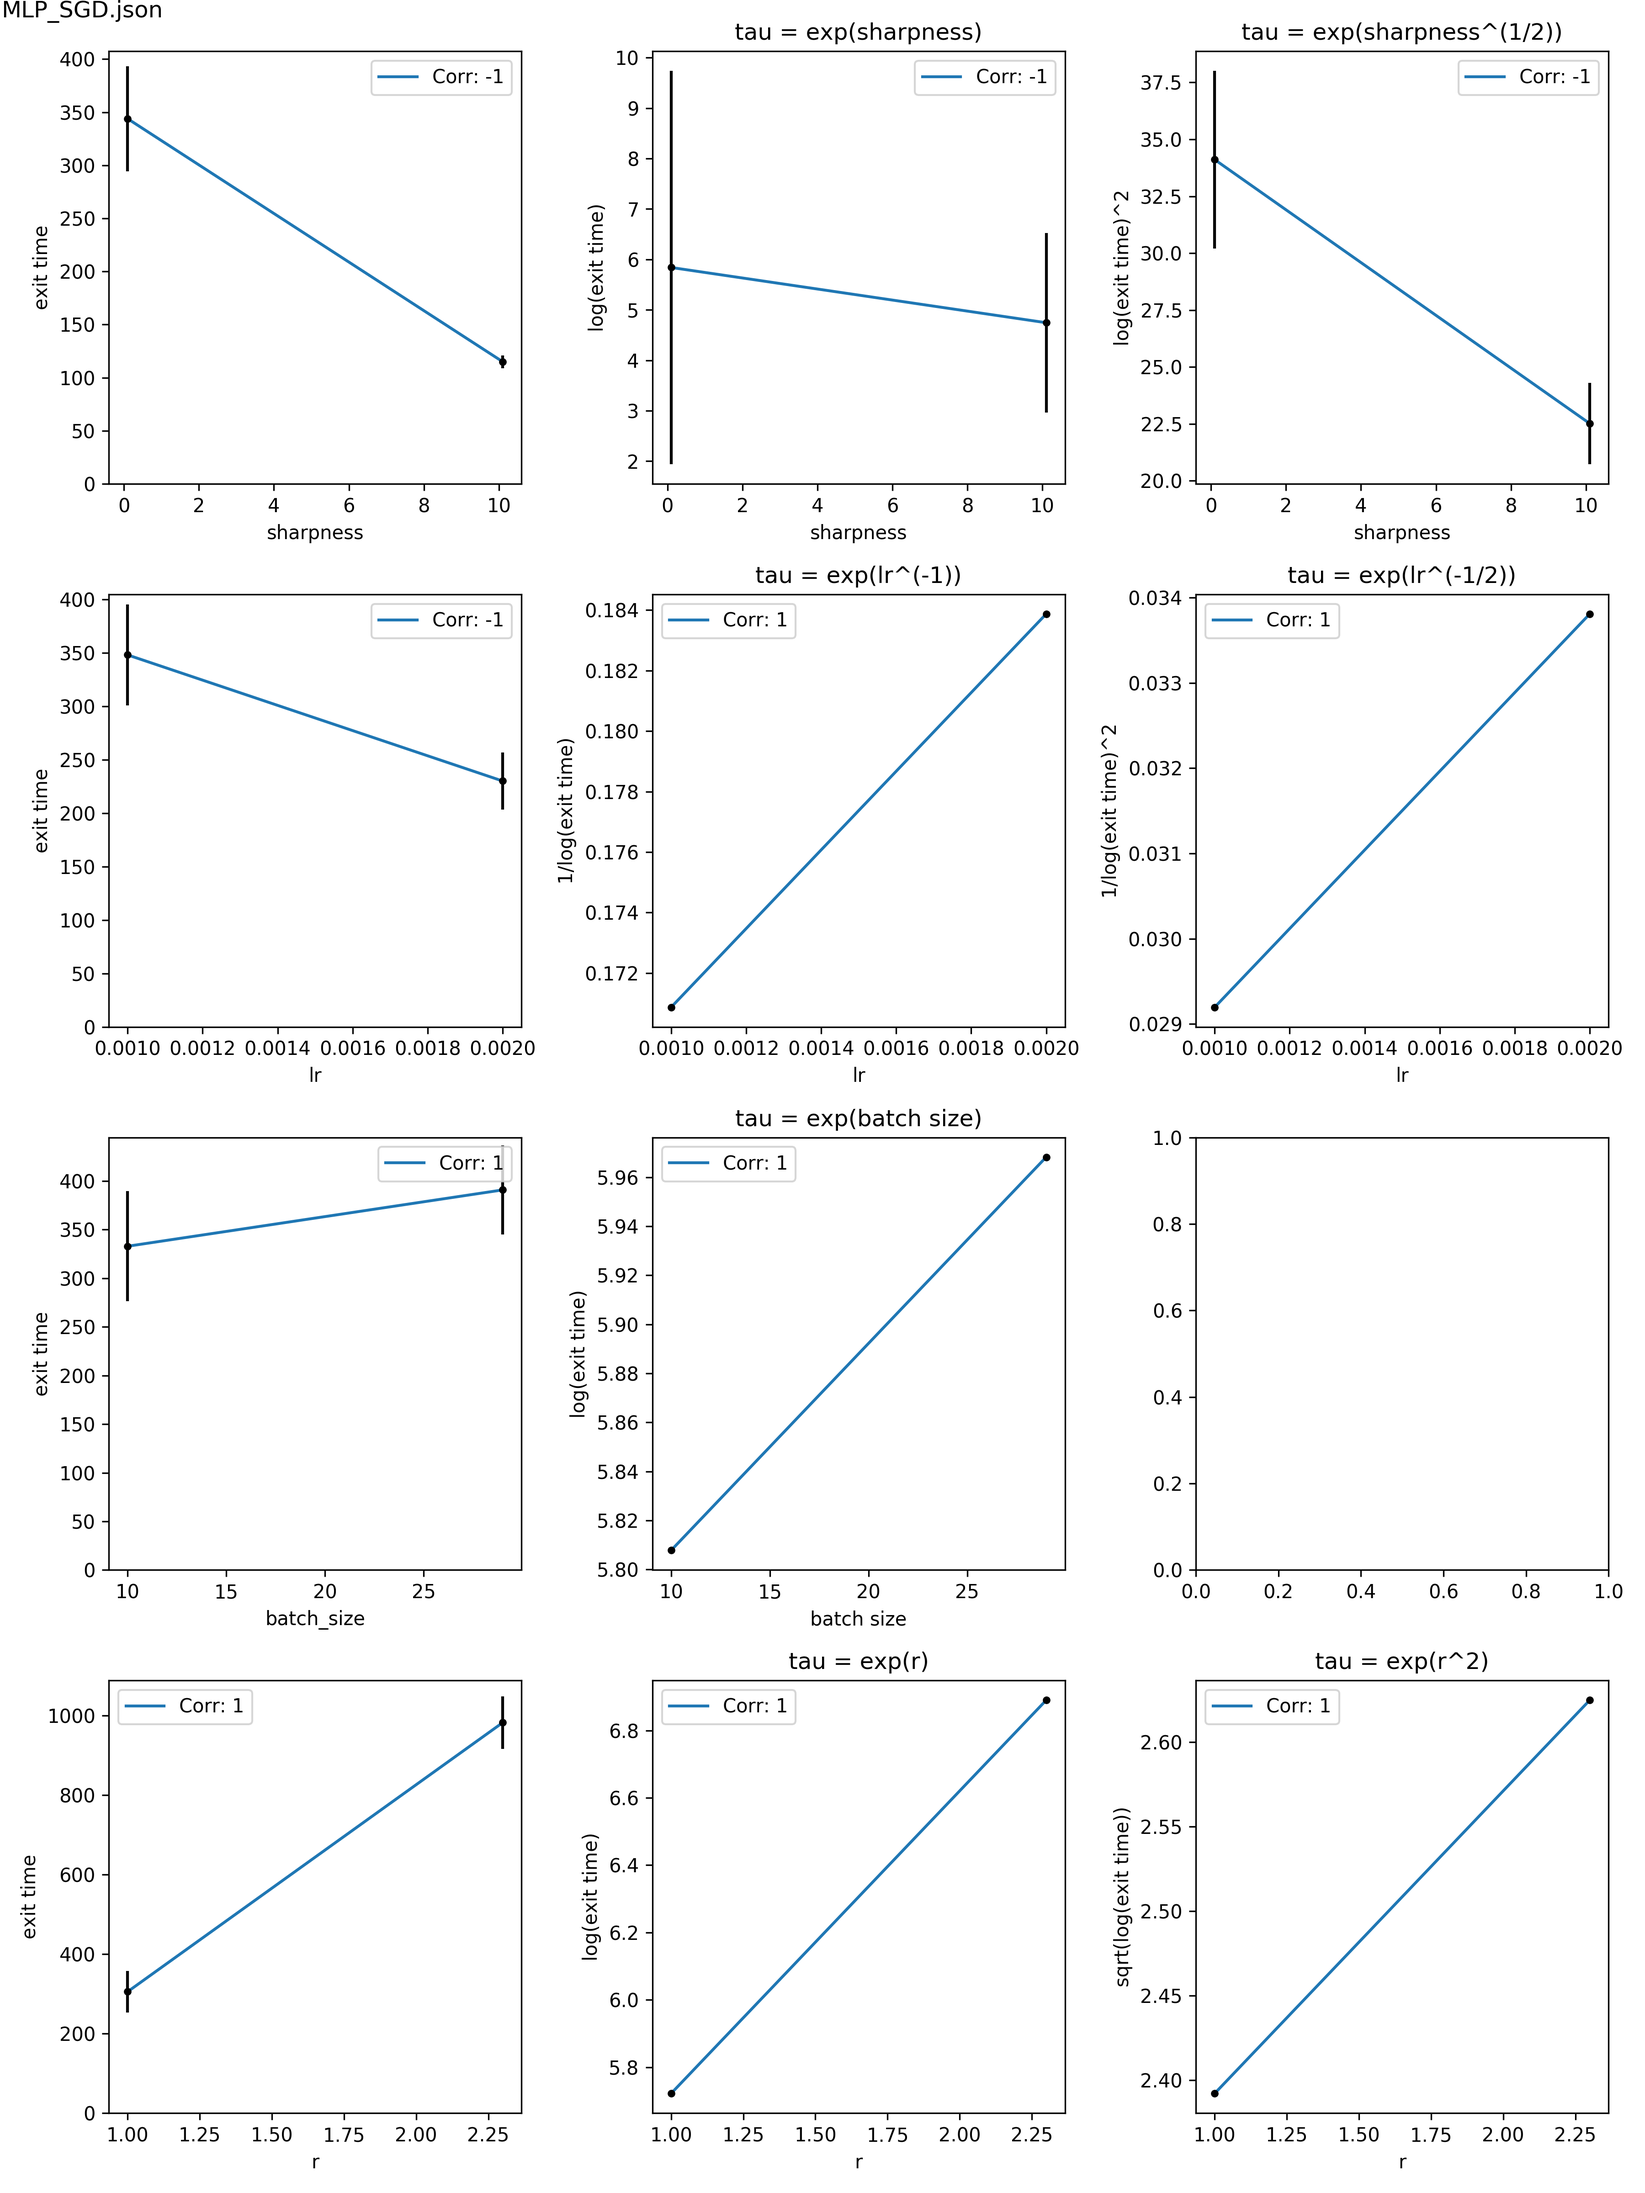
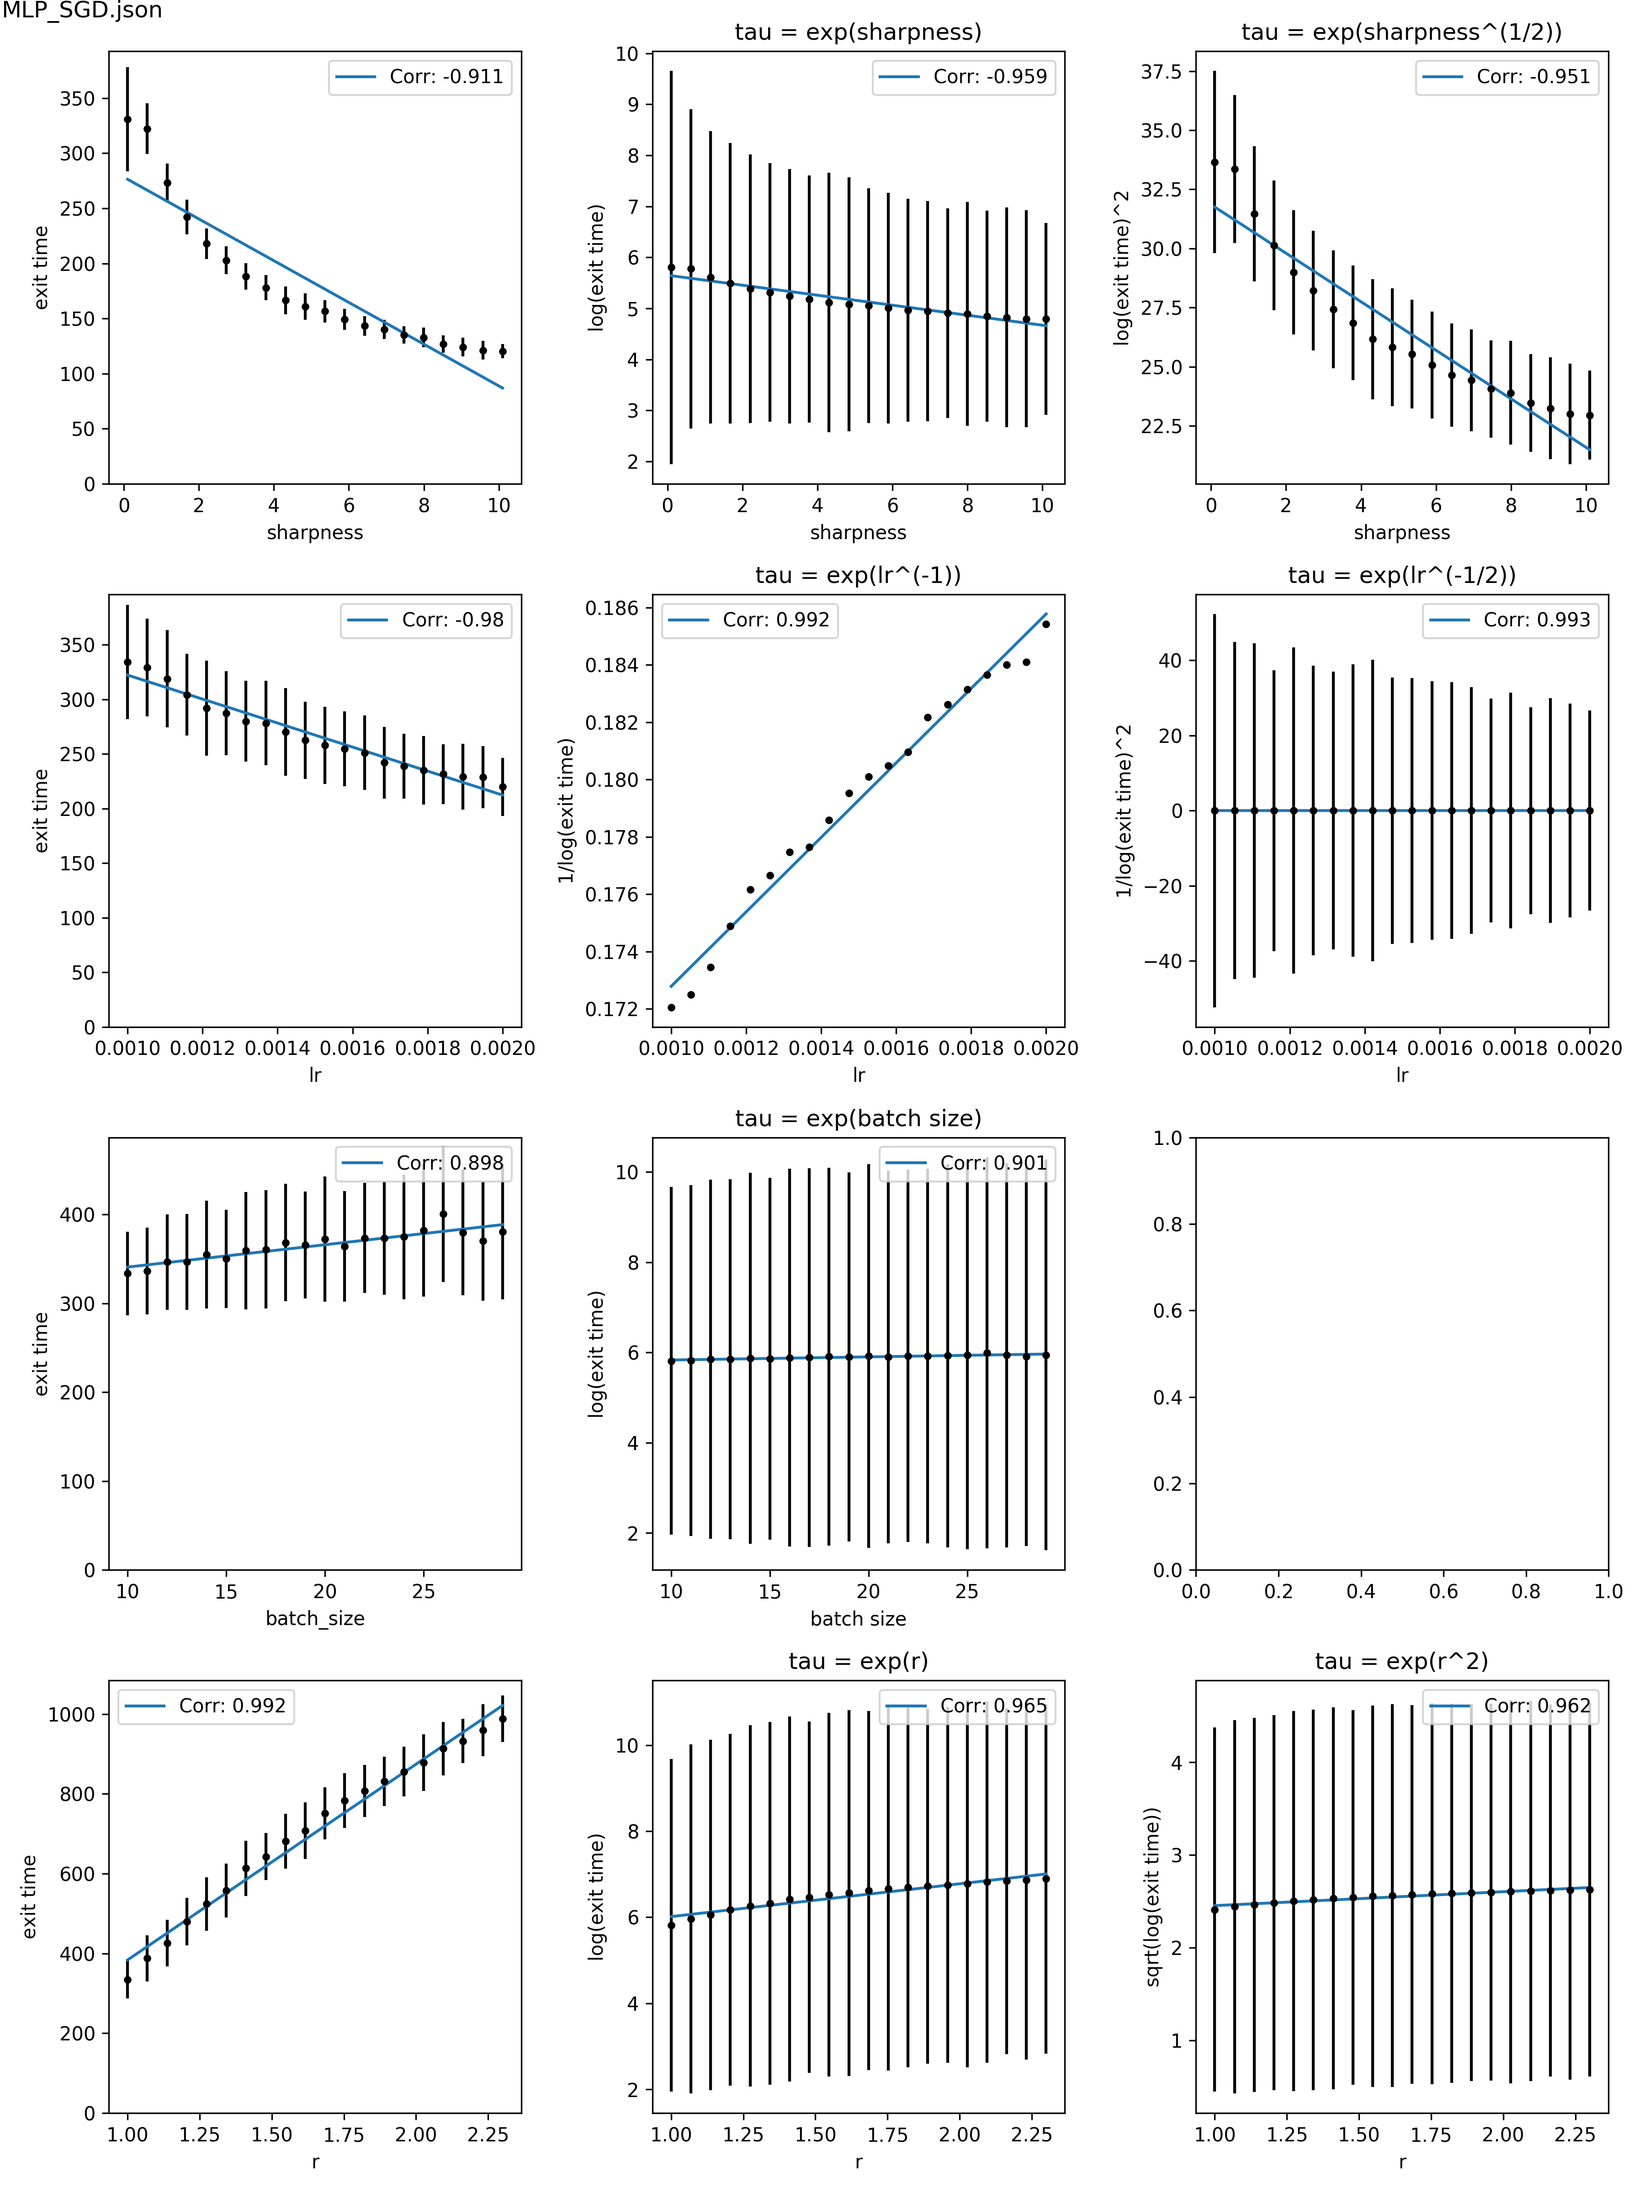
update

diff --git a/exit_time.py b/exit_time.py
@@ -226,7 +226,7 @@ def draw(config_fn, sharpness_results, lr_results, batch_size_results, r_results
     m_3, c_3 = np.linalg.lstsq(A, y_3, rcond=None)[0]
     ax2[2].set_xlabel("lr")
     ax2[2].set_ylabel("1/log(exit time)^2")
-    ax2[2].errorbar(x_3, y_3, yerr=std*0, fmt='.k') 
+    ax2[2].errorbar(x_3, y_3, yerr=std, fmt='.k') 
     ax2[2].plot(x_3, m_3*x_3 + c_3)
     ax2[2].legend([f'Corr: {coeff_3:.3g}'])
     ax2[2].set_title(f'tau = exp(lr^(-1/2))')
@@ -252,7 +252,7 @@ def draw(config_fn, sharpness_results, lr_results, batch_size_results, r_results
     m_2, c_2 = np.linalg.lstsq(A, y_2, rcond=None)[0]
     ax3[1].set_xlabel("batch size")
     ax3[1].set_ylabel("log(exit time)")
-    ax3[1].errorbar(x_2, y_2, yerr=std*0, fmt='.k') 
+    ax3[1].errorbar(x_2, y_2, yerr=np.log(std), fmt='.k') 
     ax3[1].plot(x_2, m_2*x_2 + c_2)
     ax3[1].legend([f'Corr: {coeff_2:.3g}'])
     ax3[1].set_title(f'tau = exp(batch size)')
@@ -277,7 +277,7 @@ def draw(config_fn, sharpness_results, lr_results, batch_size_results, r_results
     m_2, c_2 = np.linalg.lstsq(A, y_2, rcond=None)[0]
     ax4[1].set_xlabel("r")
     ax4[1].set_ylabel("log(exit time)")
-    ax4[1].errorbar(x_2, y_2, yerr=std*0, fmt='.k') 
+    ax4[1].errorbar(x_2, y_2, yerr=np.log(std), fmt='.k') 
     ax4[1].plot(x_2, m_2*x_2 + c_2)
     ax4[1].legend([f'Corr: {coeff_2:.3g}'])
     ax4[1].set_title(f'tau = exp(r)')
@@ -289,7 +289,7 @@ def draw(config_fn, sharpness_results, lr_results, batch_size_results, r_results
     m_3, c_3 = np.linalg.lstsq(A, y_3, rcond=None)[0]
     ax4[2].set_xlabel("r")
     ax4[2].set_ylabel("sqrt(log(exit time))")
-    ax4[2].errorbar(x_3, y_3, yerr=std*0, fmt='.k') 
+    ax4[2].errorbar(x_3, y_3, yerr=np.sqrt(np.log(std)), fmt='.k') 
     ax4[2].plot(x_3, m_3*x_3 + c_3)
     ax4[2].legend([f'Corr: {coeff_3:.3g}'])
     ax4[2].set_title(f'tau = exp(r^2)')
